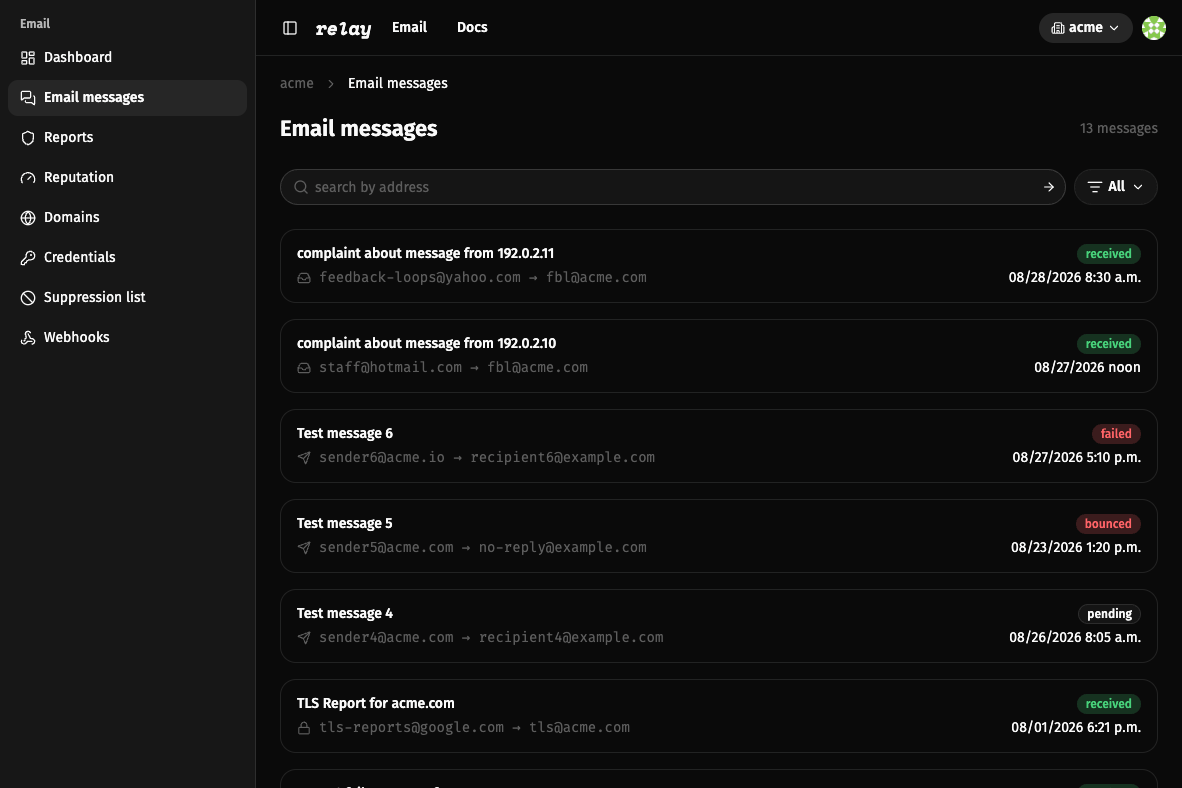
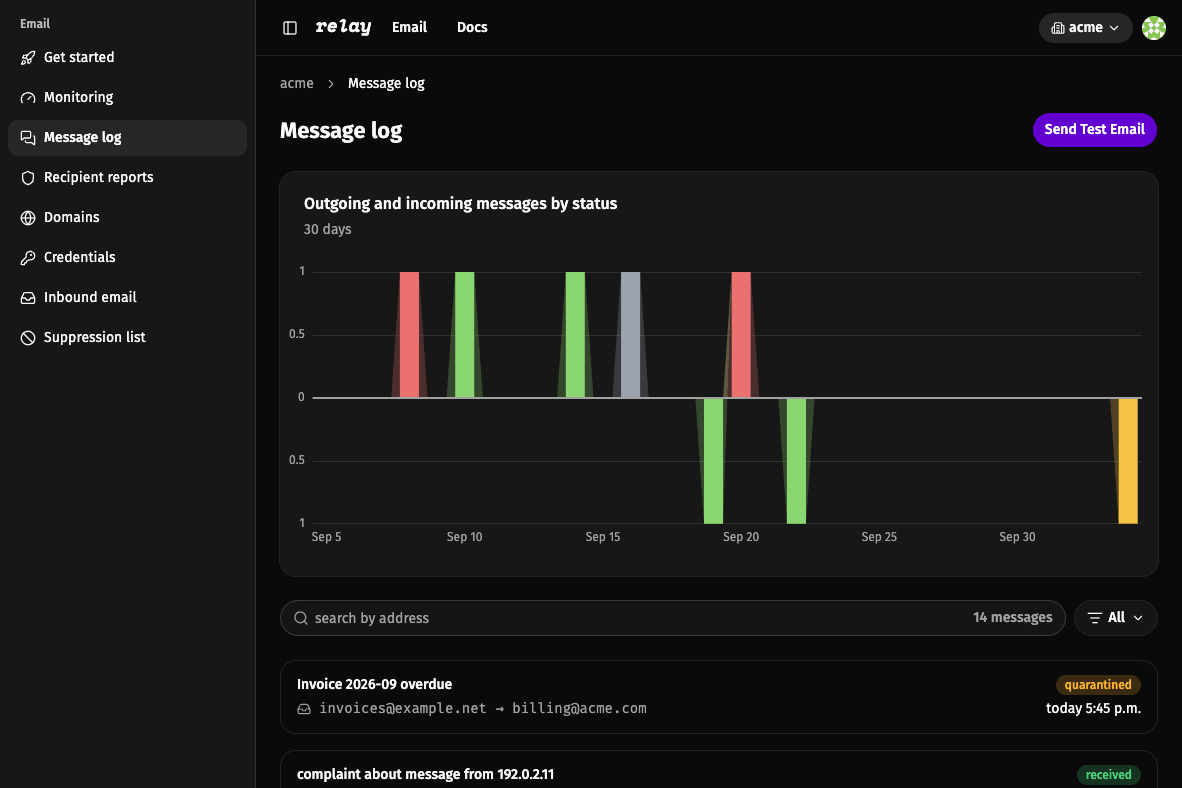
Update the start page screenshots

diff --git a/root/templates/start.html b/root/templates/start.html
@@ -191,7 +191,7 @@
               >
               <img
                 src="{% static 'img/email-overview-light.png' %}"
-                alt="relay email message list with filters and delivery statuses"
+                alt="relay message log with a 30-day volume chart, filters, and delivery statuses"
                 width="1182"
                 height="788"
                 loading="lazy"
@@ -219,7 +219,7 @@
               >
               <img
                 src="{% static 'img/email-detail-light.png' %}"
-                alt="relay message detail with transmission log, headers, and email body"
+                alt="relay message detail with delivery status, scan results, and the transmission timeline"
                 width="1182"
                 height="788"
                 loading="lazy"
@@ -229,7 +229,7 @@
           </div>
           <figcaption class="text-sm text-muted-foreground text-center m-0">
             {% blocktranslate trimmed %}
-              One message, end to end: transmission codes, headers, and body.
+              One message, end to end: status, scan results, and every transmission.
             {% endblocktranslate %}
           </figcaption>
         </figure>

diff --git a/AGENTS.md b/AGENTS.md
@@ -145,6 +145,12 @@ Disable the browser cache before capturing screenshots
 revalidations with `304`, so the browser would otherwise reuse stale
 HTML that still contains the debug toolbar.
 
+Refresh the homepage screenshots (`root/static/img/email-*-{light,dark}.png`)
+from the message log and a message detail at a 1182x788 viewport with
+device scale factor 1. The fixture ages out: its message timestamps sit
+far in the past, so shift them forward before capturing or the message
+log's 30-day chart renders empty.
+
 ## Test data
 
 Bundle: one user (`test`, password `test`), one org (`acme`), one
